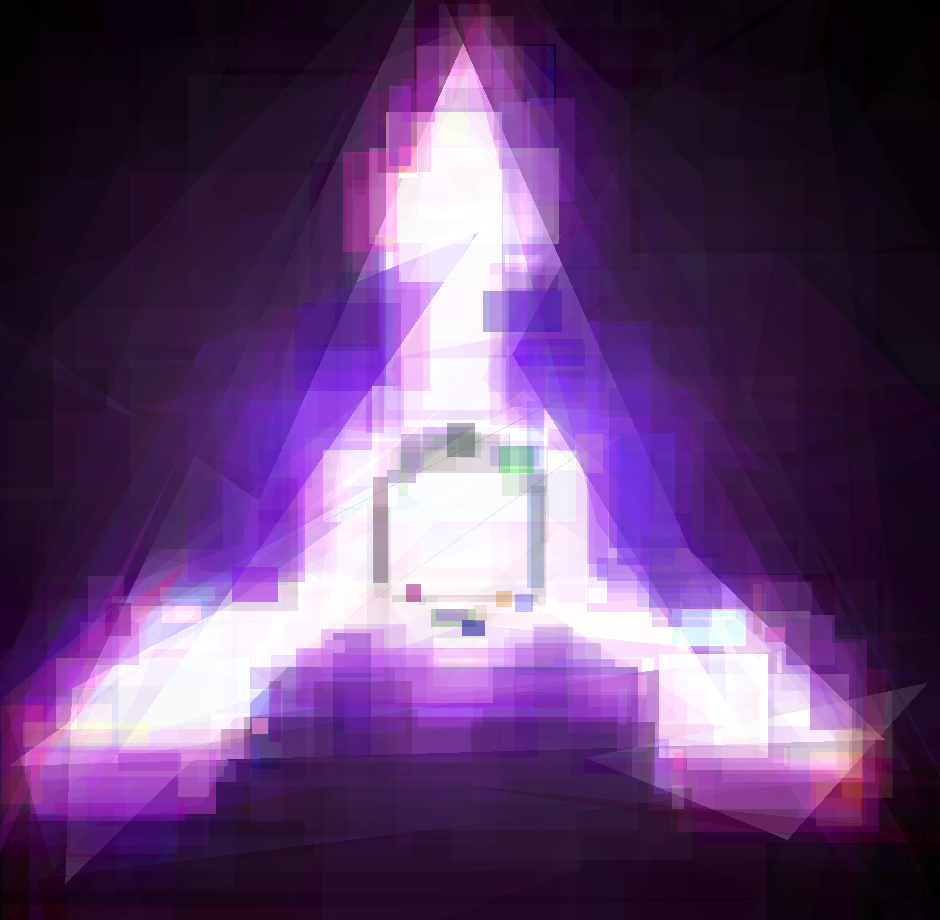
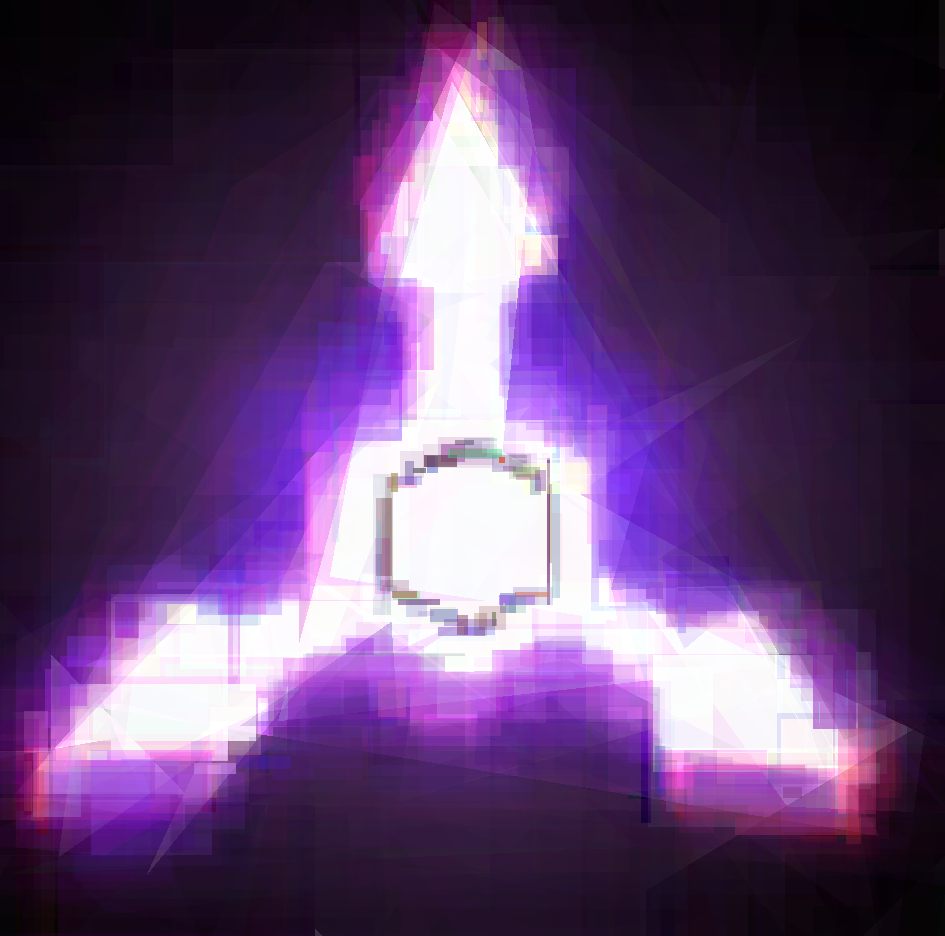
Almost got lost in git then

diff --git a/Shader/Tesselator.cs b/Shader/Tesselator.cs
@@ -26,29 +26,34 @@ namespace ShapeScape.Shader
             {
                 return r.Tesselation;
             }
+            // NPolygon is broken right now and it's actually faster to pre-compute tesselations anyway so currently the tesselator is unused
 
-            List<Tessel> result = new List<Tessel>();
-
-            float2[] verticies = shape.Verticies;
-
-            // Convert Float2 points to Float2Vertex objects
-            var vertices = verticies.Select(p => new Float2Vertex(p)).ToArray();
-
-
-            // Perform Delaunay triangulation
-            var triangulation = DelaunayTriangulation<Float2Vertex, Float2Cell>.Create(vertices, 2);
-            // Print triangles
-            int i = 0;
-            foreach (var triangle in triangulation.Cells)
+            else
             {
-                var v0 = triangle.Vertices[0].Point;
-                var v1 = triangle.Vertices[1].Point;
-                var v2 = triangle.Vertices[2].Point;
-                result.Add(new Tessel(v0, v1, v2, shape.Color));
+                List<Tessel> result = new List<Tessel>();
 
-                i++;
+                float2[] verticies = shape.Verticies;
+
+                // Convert Float2 points to Float2Vertex objects
+                var vertices = verticies.Select(p => new Float2Vertex(p)).ToArray();
+
+
+                // Perform Delaunay triangulation
+                var triangulation = DelaunayTriangulation<Float2Vertex, Float2Cell>.Create(vertices, 2);
+                // Print triangles
+                int i = 0;
+                foreach (var triangle in triangulation.Cells)
+                {
+                    var v0 = triangle.Vertices[0].Point;
+                    var v1 = triangle.Vertices[1].Point;
+                    var v2 = triangle.Vertices[2].Point;
+                    result.Add(new Tessel(v0, v1, v2, shape.Color));
+
+                    i++;
+                }
+                return result.ToArray();
             }
-            return result.ToArray();
+
         }
 
         // Triangle cell representation

diff --git a/Program.cs b/Program.cs
@@ -96,6 +96,11 @@ namespace ShapeScape
         /// </summary>
         public static string ImagePath => Path.Combine(FileUtils.WorkingDirectory, Filename);
 
+        /// <summary>
+        /// True dimensions of the output image as <see cref="BaseImageBuffer"/> is reduced in size drastically
+        /// </summary>
+        public static int2 ScaledDimensions => new int2((int)(Dimensions.X * DownscaleFactor), (int)(Dimensions.Y * DownscaleFactor));
+
         // Techinically this should be grouped into <see cref="RandomUtils"/> because it would make more sense there, but i'm very used to MainClass.rand.Next() calls
         /// <summary>
         /// Random class shared program-wide. <br/>
@@ -132,7 +137,7 @@ namespace ShapeScape
         /// This comes from NPolygon having a max vertex count of 8, and applying the formula 2N - 4 to calculate tessel count from vertices
         /// </summary>
         public const int MAX_TESSELS = 12;
-        public static int2 ScaledDimensions => new int2((int)(Dimensions.X * DownscaleFactor), (int)(Dimensions.Y * DownscaleFactor));
+
 
         #endregion
 

diff --git a/Shapes/Rectangle.cs b/Shapes/Rectangle.cs
@@ -34,7 +34,7 @@ namespace ShapeScape.Shapes
 
 
 
-
+            
 
             // This vertex order makes more sense for triangulating
             this.Verticies[1] = new float2(topLeft.X + 0, topLeft.Y + dimensions.Y); // Bottom left
@@ -58,6 +58,8 @@ namespace ShapeScape.Shapes
 
             this.topLeft = new float2(TopLeft.X, TopLeft.Y);
             this.dimensions = new float2(Dimensions.X, Dimensions.Y);
+
+            // Re-do tesselation after getting created by our parent as mutation only effects verticies
 
             // This vertex order makes more sense for triangulating
             this.Verticies[1] = new float2(topLeft.X + 0, topLeft.Y + dimensions.Y); // Bottom left
